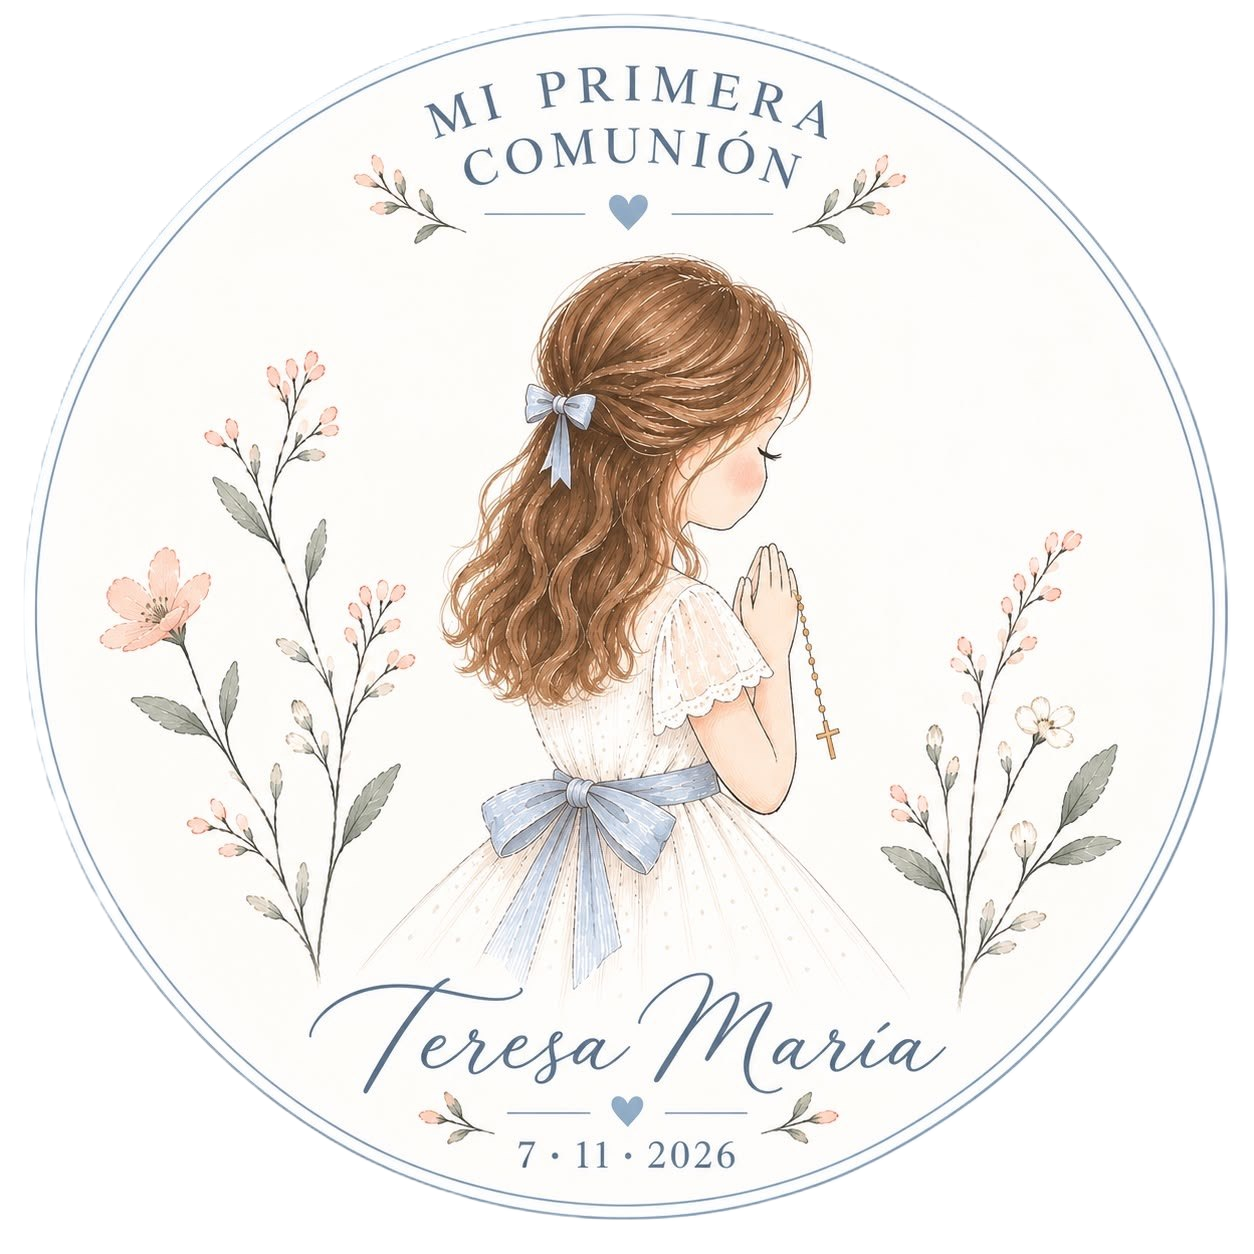
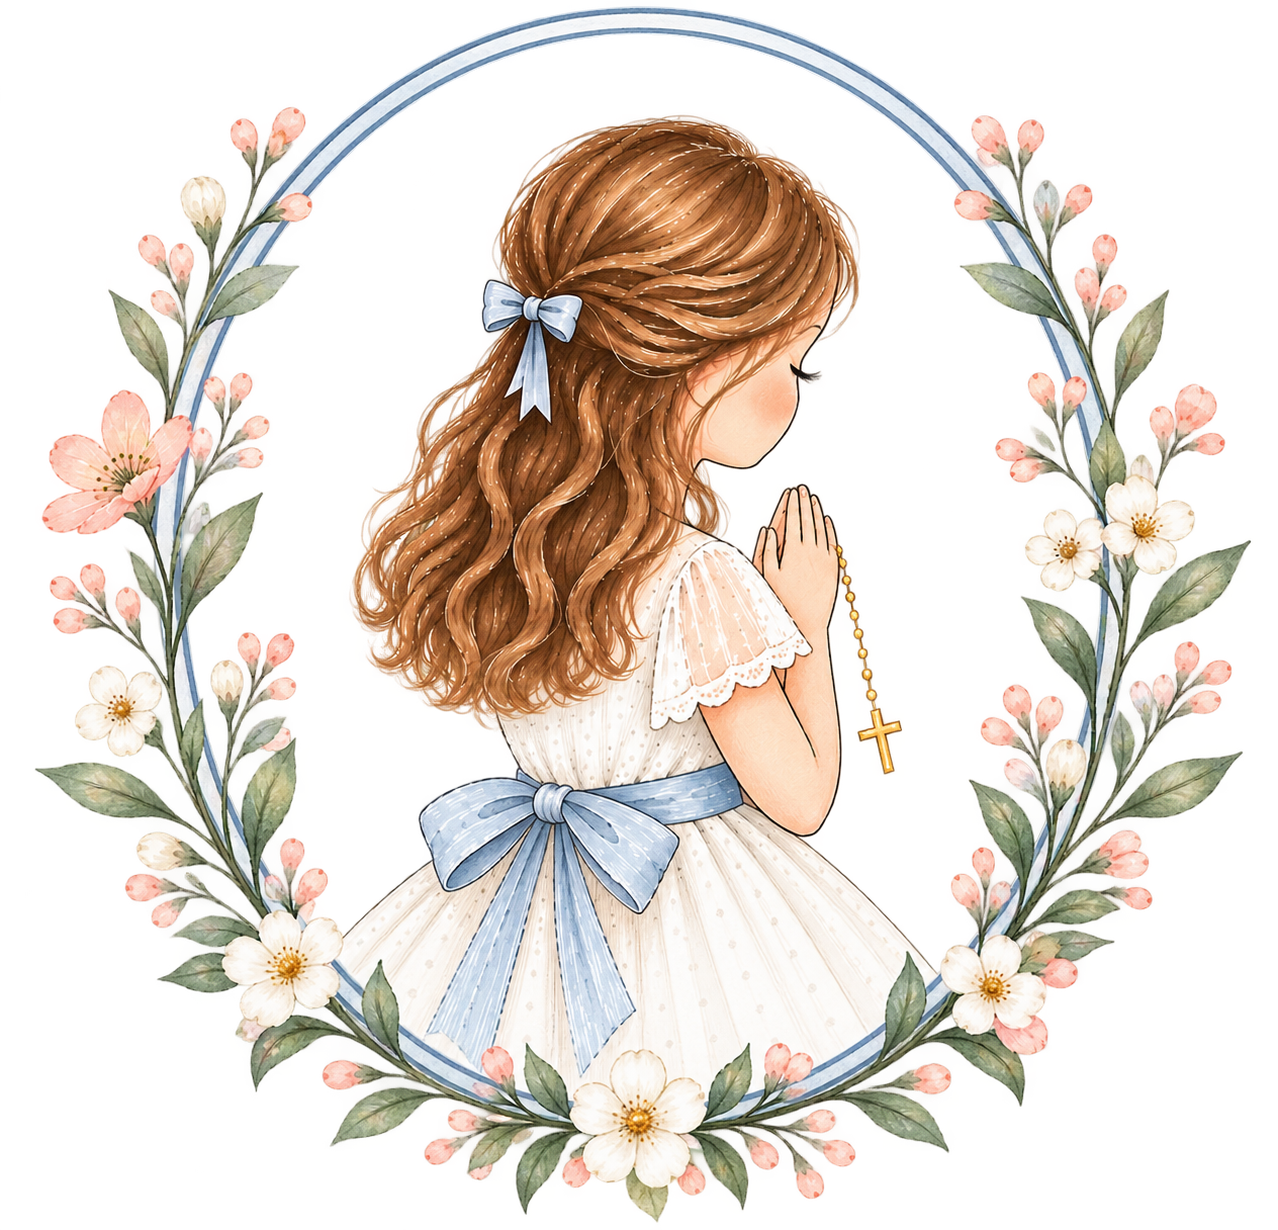
new images + gifts dissapear

diff --git a/index.html b/index.html
@@ -627,11 +627,8 @@
 
 
             grid.innerHTML = gifts
+                .filter(gift => !reservations.has(gift.id))
                 .map(gift => {
-
-                    const reserved =
-                        reservations.has(gift.id);
-
 
                     const photo =
                         gift.image_url
@@ -642,13 +639,6 @@
                                 >
                               `
                             : "✦";
-
-
-                    const price =
-                        gift.price != null
-                            ? `${Number(gift.price)
-                                .toLocaleString("es-ES")} €`
-                            : "";
 
 
                     return `
@@ -664,34 +654,12 @@
                                     ${escapeHtml(gift.name)}
                                 </h3>
 
-                                <div class="desc">
-                                    ${escapeHtml(
-                                        gift.description || ""
-                                    )}
-                                </div>
-
-                                <div class="bottom">
-
-                                    <span class="price">
-                                        ${price}
-                                    </span>
-
-                                    <button
-                                        ${reserved ? "disabled" : ""}
-                                        onclick="openModal(${gift.id})"
-                                    >
-                                        ${reserved
-                                            ? "Reservado"
-                                            : "Reservar"}
-                                    </button>
-
-                                </div>
-
-                                <div class="status">
-                                    ${reserved
-                                        ? "🔒 Ya reservado"
-                                        : "● Disponible"}
-                                </div>
+                                <button
+                                    class="reserve-button"
+                                    onclick="openModal(${gift.id})"
+                                >
+                                    Reservar
+                                </button>
 
                             </div>
 
